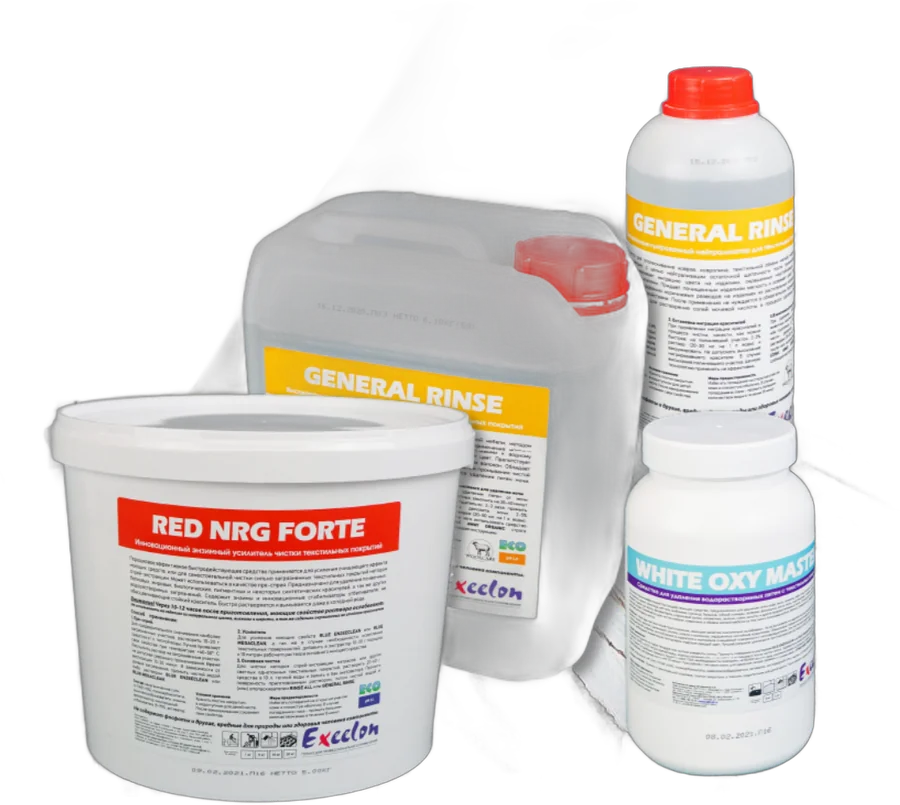
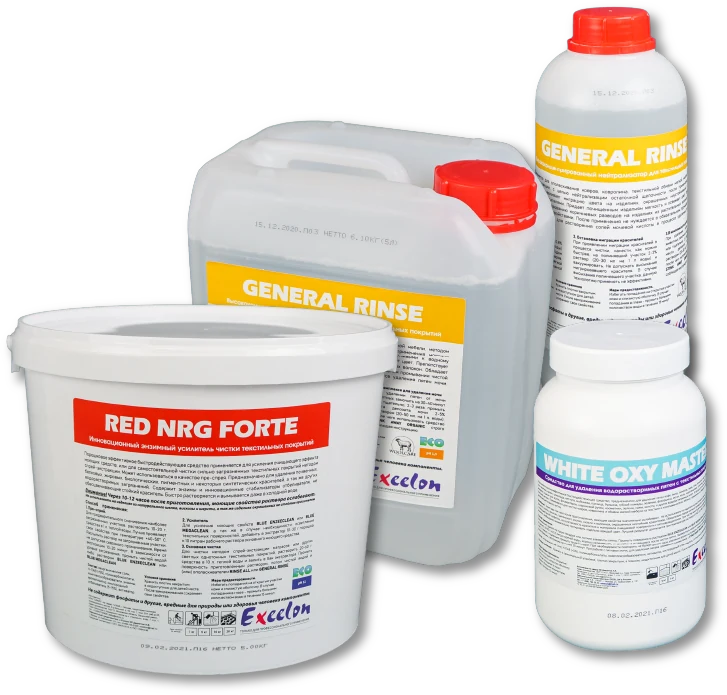
Главная, «Технология»: новое фото химии, картинки крупнее
Claude-Session: https://claude.ai/code/session_01DTk4vt6VHPrMetnV6K7HFG

diff --git a/site/index.html b/site/index.html
@@ -17,7 +17,7 @@
 <link rel="icon" href="favicon.ico?v=84b9e435" sizes="any">
 <link rel="icon" href="favicon.svg?v=76e8cb45" type="image/svg+xml">
 <link rel="apple-touch-icon" href="apple-touch-icon.png?v=ce9de470">
-<link rel="stylesheet" href="assets/css/styles.css?v=732197ca">
+<link rel="stylesheet" href="assets/css/styles.css?v=90981bb1">
 <link rel="preconnect" href="https://fonts.googleapis.com">
 <link rel="preconnect" href="https://fonts.gstatic.com" crossorigin>
 <link href="https://fonts.googleapis.com/css2?family=Manrope:wght@500;600;700;800&display=swap" rel="stylesheet">
@@ -282,7 +282,7 @@
               <li>Нейтрализаторы запахов, безопасные для детей, аллергиков и животных</li>
             </ul>
           </div>
-          <img class="tech-media-img" src="assets/img/tech-himiya.webp?v=d092cbd1" alt="Профессиональная химия для чистки мебели" width="900" height="800" loading="lazy">
+          <img class="tech-media-img" src="assets/img/tech-himiya.webp?v=44d4add2" alt="Профессиональная химия для чистки мебели" width="823" height="749" loading="lazy">
         </div>
         <div class="tech-media-card">
           <div class="tech-media-text">
@@ -293,7 +293,7 @@
               <li>Щётки и насадки разной жёсткости под тип ткани и ворса</li>
             </ul>
           </div>
-          <img class="tech-media-img" src="assets/img/tech-ekstraktor.webp?v=d0d322fb" alt="Профессиональный экстрактор для химчистки мебели" width="900" height="800" loading="lazy">
+          <img class="tech-media-img" src="assets/img/tech-ekstraktor.webp?v=d0d322fb" alt="Профессиональный экстрактор для химчистки мебели" width="823" height="749" loading="lazy">
         </div>
       </div>
     </div>

diff --git a/site/ceny.html b/site/ceny.html
@@ -17,7 +17,7 @@
 <link rel="icon" href="favicon.ico?v=84b9e435" sizes="any">
 <link rel="icon" href="favicon.svg?v=76e8cb45" type="image/svg+xml">
 <link rel="apple-touch-icon" href="apple-touch-icon.png?v=ce9de470">
-<link rel="stylesheet" href="assets/css/styles.css?v=732197ca">
+<link rel="stylesheet" href="assets/css/styles.css?v=90981bb1">
 <link rel="preconnect" href="https://fonts.googleapis.com">
 <link rel="preconnect" href="https://fonts.gstatic.com" crossorigin>
 <link href="https://fonts.googleapis.com/css2?family=Manrope:wght@500;600;700;800&display=swap" rel="stylesheet">

diff --git a/site/himchistka-avtomobilnogo-salona.html b/site/himchistka-avtomobilnogo-salona.html
@@ -17,7 +17,7 @@
 <link rel="icon" href="favicon.ico?v=84b9e435" sizes="any">
 <link rel="icon" href="favicon.svg?v=76e8cb45" type="image/svg+xml">
 <link rel="apple-touch-icon" href="apple-touch-icon.png?v=ce9de470">
-<link rel="stylesheet" href="assets/css/styles.css?v=732197ca">
+<link rel="stylesheet" href="assets/css/styles.css?v=90981bb1">
 <link rel="preconnect" href="https://fonts.googleapis.com">
 <link rel="preconnect" href="https://fonts.gstatic.com" crossorigin>
 <link href="https://fonts.googleapis.com/css2?family=Manrope:wght@500;600;700;800&display=swap" rel="stylesheet">

diff --git a/site/himchistka-divana.html b/site/himchistka-divana.html
@@ -17,7 +17,7 @@
 <link rel="icon" href="favicon.ico?v=84b9e435" sizes="any">
 <link rel="icon" href="favicon.svg?v=76e8cb45" type="image/svg+xml">
 <link rel="apple-touch-icon" href="apple-touch-icon.png?v=ce9de470">
-<link rel="stylesheet" href="assets/css/styles.css?v=732197ca">
+<link rel="stylesheet" href="assets/css/styles.css?v=90981bb1">
 <link rel="preconnect" href="https://fonts.googleapis.com">
 <link rel="preconnect" href="https://fonts.gstatic.com" crossorigin>
 <link href="https://fonts.googleapis.com/css2?family=Manrope:wght@500;600;700;800&display=swap" rel="stylesheet">

diff --git a/site/himchistka-kolyaski.html b/site/himchistka-kolyaski.html
@@ -17,7 +17,7 @@
 <link rel="icon" href="favicon.ico?v=84b9e435" sizes="any">
 <link rel="icon" href="favicon.svg?v=76e8cb45" type="image/svg+xml">
 <link rel="apple-touch-icon" href="apple-touch-icon.png?v=ce9de470">
-<link rel="stylesheet" href="assets/css/styles.css?v=732197ca">
+<link rel="stylesheet" href="assets/css/styles.css?v=90981bb1">
 <link rel="preconnect" href="https://fonts.googleapis.com">
 <link rel="preconnect" href="https://fonts.gstatic.com" crossorigin>
 <link href="https://fonts.googleapis.com/css2?family=Manrope:wght@500;600;700;800&display=swap" rel="stylesheet">

diff --git a/site/himchistka-kovrolina.html b/site/himchistka-kovrolina.html
@@ -17,7 +17,7 @@
 <link rel="icon" href="favicon.ico?v=84b9e435" sizes="any">
 <link rel="icon" href="favicon.svg?v=76e8cb45" type="image/svg+xml">
 <link rel="apple-touch-icon" href="apple-touch-icon.png?v=ce9de470">
-<link rel="stylesheet" href="assets/css/styles.css?v=732197ca">
+<link rel="stylesheet" href="assets/css/styles.css?v=90981bb1">
 <link rel="preconnect" href="https://fonts.googleapis.com">
 <link rel="preconnect" href="https://fonts.gstatic.com" crossorigin>
 <link href="https://fonts.googleapis.com/css2?family=Manrope:wght@500;600;700;800&display=swap" rel="stylesheet">

diff --git a/site/himchistka-kovrov.html b/site/himchistka-kovrov.html
@@ -17,7 +17,7 @@
 <link rel="icon" href="favicon.ico?v=84b9e435" sizes="any">
 <link rel="icon" href="favicon.svg?v=76e8cb45" type="image/svg+xml">
 <link rel="apple-touch-icon" href="apple-touch-icon.png?v=ce9de470">
-<link rel="stylesheet" href="assets/css/styles.css?v=732197ca">
+<link rel="stylesheet" href="assets/css/styles.css?v=90981bb1">
 <link rel="preconnect" href="https://fonts.googleapis.com">
 <link rel="preconnect" href="https://fonts.gstatic.com" crossorigin>
 <link href="https://fonts.googleapis.com/css2?family=Manrope:wght@500;600;700;800&display=swap" rel="stylesheet">

diff --git a/site/himchistka-kresla.html b/site/himchistka-kresla.html
@@ -17,7 +17,7 @@
 <link rel="icon" href="favicon.ico?v=84b9e435" sizes="any">
 <link rel="icon" href="favicon.svg?v=76e8cb45" type="image/svg+xml">
 <link rel="apple-touch-icon" href="apple-touch-icon.png?v=ce9de470">
-<link rel="stylesheet" href="assets/css/styles.css?v=732197ca">
+<link rel="stylesheet" href="assets/css/styles.css?v=90981bb1">
 <link rel="preconnect" href="https://fonts.googleapis.com">
 <link rel="preconnect" href="https://fonts.gstatic.com" crossorigin>
 <link href="https://fonts.googleapis.com/css2?family=Manrope:wght@500;600;700;800&display=swap" rel="stylesheet">

diff --git a/site/himchistka-kuhonnogo-ugolka.html b/site/himchistka-kuhonnogo-ugolka.html
@@ -17,7 +17,7 @@
 <link rel="icon" href="favicon.ico?v=84b9e435" sizes="any">
 <link rel="icon" href="favicon.svg?v=76e8cb45" type="image/svg+xml">
 <link rel="apple-touch-icon" href="apple-touch-icon.png?v=ce9de470">
-<link rel="stylesheet" href="assets/css/styles.css?v=732197ca">
+<link rel="stylesheet" href="assets/css/styles.css?v=90981bb1">
 <link rel="preconnect" href="https://fonts.googleapis.com">
 <link rel="preconnect" href="https://fonts.gstatic.com" crossorigin>
 <link href="https://fonts.googleapis.com/css2?family=Manrope:wght@500;600;700;800&display=swap" rel="stylesheet">

diff --git a/site/himchistka-matrasa.html b/site/himchistka-matrasa.html
@@ -17,7 +17,7 @@
 <link rel="icon" href="favicon.ico?v=84b9e435" sizes="any">
 <link rel="icon" href="favicon.svg?v=76e8cb45" type="image/svg+xml">
 <link rel="apple-touch-icon" href="apple-touch-icon.png?v=ce9de470">
-<link rel="stylesheet" href="assets/css/styles.css?v=732197ca">
+<link rel="stylesheet" href="assets/css/styles.css?v=90981bb1">
 <link rel="preconnect" href="https://fonts.googleapis.com">
 <link rel="preconnect" href="https://fonts.gstatic.com" crossorigin>
 <link href="https://fonts.googleapis.com/css2?family=Manrope:wght@500;600;700;800&display=swap" rel="stylesheet">

diff --git a/site/himchistka-mebeli-dlya-biznesa.html b/site/himchistka-mebeli-dlya-biznesa.html
@@ -17,7 +17,7 @@
 <link rel="icon" href="favicon.ico?v=84b9e435" sizes="any">
 <link rel="icon" href="favicon.svg?v=76e8cb45" type="image/svg+xml">
 <link rel="apple-touch-icon" href="apple-touch-icon.png?v=ce9de470">
-<link rel="stylesheet" href="assets/css/styles.css?v=732197ca">
+<link rel="stylesheet" href="assets/css/styles.css?v=90981bb1">
 <link rel="preconnect" href="https://fonts.googleapis.com">
 <link rel="preconnect" href="https://fonts.gstatic.com" crossorigin>
 <link href="https://fonts.googleapis.com/css2?family=Manrope:wght@500;600;700;800&display=swap" rel="stylesheet">

diff --git a/site/himchistka-mebeli-v-kafe-i-restoranah.html b/site/himchistka-mebeli-v-kafe-i-restoranah.html
@@ -17,7 +17,7 @@
 <link rel="icon" href="favicon.ico?v=84b9e435" sizes="any">
 <link rel="icon" href="favicon.svg?v=76e8cb45" type="image/svg+xml">
 <link rel="apple-touch-icon" href="apple-touch-icon.png?v=ce9de470">
-<link rel="stylesheet" href="assets/css/styles.css?v=732197ca">
+<link rel="stylesheet" href="assets/css/styles.css?v=90981bb1">
 <link rel="preconnect" href="https://fonts.googleapis.com">
 <link rel="preconnect" href="https://fonts.gstatic.com" crossorigin>
 <link href="https://fonts.googleapis.com/css2?family=Manrope:wght@500;600;700;800&display=swap" rel="stylesheet">
